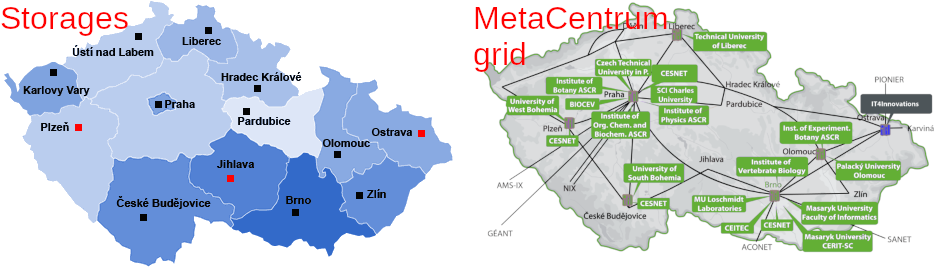
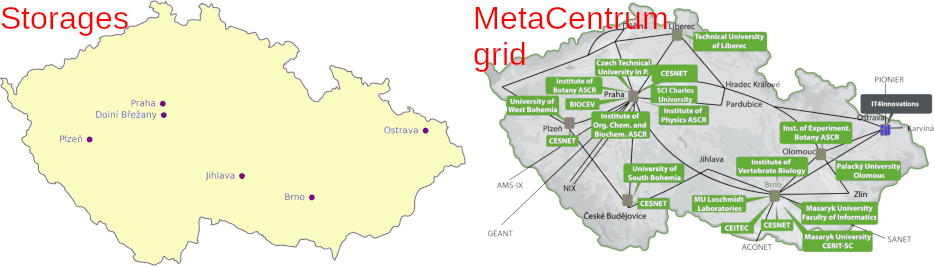
Updated links. Fixed spacing around code blocks. Updated map of storages.

Changed region(s): [[0.0, 0.0, 0.4968, 1.0]]

diff --git a/presentation/linux_bash_metacentrum_course.tex b/presentation/linux_bash_metacentrum_course.tex
@@ -67,8 +67,8 @@
 	}
 
 % Fixing space before and after block of code higlight
-\BeforeBeginEnvironment{bashcode}{\vspace{-0.75em}}
-\AfterEndEnvironment{bashcode}{\par\vspace{-0.5em}}
+\BeforeBeginEnvironment{bashcode}{\vspace{-0.25em}}
+\AfterEndEnvironment{bashcode}{\par\vspace{-0.25em}}
 
 % Fixing space before and after multicols region
 \BeforeBeginEnvironment{multicols}{\vspace{-0.5em}}
@@ -219,7 +219,7 @@
 			\item Nowadays powering most of the Internet
 			\item Anyone can contribute --- not only code, also documentation, design, translations,~\ldots
 			\item Most of people working with UNIX are using Linux (or macOS)
-			\item Powering everything from little \href{https://en.wikipedia.org/wiki/Internet_of_things}{IoT} toys and devices to 100\% of \href{https://www.top500.org/statistics/list/}{top 500 supercomputers}
+			\item Powering everything from little \href{https://en.wikipedia.org/wiki/Internet_of_things}{IoT} toys and devices to 100\% of \href{https://www.top500.org/lists/top500/}{top 500 supercomputers}
 		\end{itemize}
 		\item \textbf{GNU tools} and \textbf{Linux kernel} are two important (but not sole) pieces of building set forming modern operating system --- \textbf{\enquote{Linux distribution}}
 		\item \enquote{Linux} nowadays usually mean Linux kernel + GNU basic tools (thus correctly \enquote{GNU/Linux}) + thousands of various another applications (= \enquote{Linux distribution}) --- ecosystem of (free) open-source GNU/Linux applications of various origin forming together what  we usually call simply \enquote{Linux}
@@ -309,7 +309,7 @@
 			\item Easier to find and trace bugs
 			\item Security --- no backdoors, possibility to do various audits, screenings, etc.
 			\item Bugs (problems) in the code can fixed by nearly anyone
-			\item Often available for free (e.g. on services like \href{https://github.com/}{GitHub} or \href{https://sourceforge.net/}{SourceForge})
+			\item Often available for free (e.g. on services like \href{https://github.com/}{GitHub}, \href{https://gitlab.com/}{GitLab}, \href{https://bitbucket.org/}{Bitbucket} or \href{https://sourceforge.net/}{SourceForge})
 			\item Easier distribution of the software (can be copied into various repositories, like those of Linux distributions, \href{https://docs.conda.io/}{Conda} or \href{https://brew.sh/}{Homebrew})
 		\end{itemize}
 	\end{itemize}
@@ -410,8 +410,7 @@
 		\item \href{https://www.gnome.org/}{GNOME} --- one of the most common, relatively simplistic interface, but still feature rich, \enquote{Mac-like}
 		\item \href{https://xfce.org/}{XFCE} --- lightweight version of older GNOME --- for older computers or users not willing to be disturbed by graphical effects, basically \enquote{Mac-like} looking, but panels can be moved to \enquote{Windows style}
 		\item \href{https://cinnamon-spices.linuxmint.com/}{Cinnamon} --- remake of GNOME to look more like Windows\ldots
-		\item \href{https://code.launchpad.net/unity}{Unity} --- originally developed by Ubuntu (discontinued, now community based), \enquote{Mac-style}
-		\item And much more\ldots
+		\item And much \href{https://en.wikipedia.org/wiki/Desktop_environment\#Examples_of_desktop_environments}{more}\ldots
 		\item Choose what you like --- doesn't matter much which one\ldots
 	\end{itemize}
 \end{frame}
@@ -996,7 +995,7 @@
 		\item Important especially in network environment with many users
 		\item If intensively used, \texttt{ls -l} sometimes doesn't show correct permissions (see next slide), it can be confusing and lead into various issues
 		\item If not in use on a~server, relatively high number of groups is required to be able to correctly setup sharing permissions
-		\item MetaCentrum has storages and clusters connected via NFSv4 protocol (see also slide~\ref{netfs}) --- commands \texttt{getfacl} and \texttt{setfacl} do not work there, use \texttt{nfs4\_getfacl}, \texttt{nfs4\_setfacl} and \texttt{nfs4\_editfacl} instead (usage is very similar), see also \href{https://wiki.metacentrum.cz/wiki/Access_Control_Lists_on_NFSv4}{old MetaCentrum wiki}
+		\item MetaCentrum has storages and clusters connected via NFSv4 protocol (see also slide~\ref{netfs}) --- commands \texttt{getfacl} and \texttt{setfacl} do not work there, use \texttt{nfs4\_getfacl}, \texttt{nfs4\_setfacl} and \texttt{nfs4\_editfacl} instead (usage is very similar), see also \href{https://docs.metacentrum.cz/en/docs/data/data-sharing\#nfsv4-wrapper}{MetaCentrum documentation}
 		\item Permissions (\enquote{classical} as well as ACL) require some time to practice and master it\ldots
 	\end{itemize}
 	\begin{block}{Importance of permissions}
@@ -1262,7 +1261,7 @@
 		\vfill
 		\begin{itemize}
 			\item If fingerprint key changes, ssh complains a~lot --- possible \href{https://en.wikipedia.org/wiki/Man-in-the-middle_attack}{man in the middle attack}
-			\item From Windows use \href{https://www.putty.org/}{Putty} (see right figure)
+			\item From Windows use \href{https://www.chiark.greenend.org.uk/~sgtatham/putty/}{Putty} (see right figure)
 		\end{itemize}
 		\begin{center}
 			\includegraphics[height=6cm]{putty.png}
@@ -2635,7 +2634,7 @@
 			\item \href{https://www.gnu.org/software/emacs/}{GNU Emacs}
 			\item \href{https://www.geany.org/}{Geany}
 			\item \href{https://bluefish.openoffice.nl/}{Bluefish}
-			\item \href{https://gedit-technology.github.io/apps/gedit/}{Gedit}
+			\item \href{https://gedit-text-editor.org/}{Gedit}
 			\item \href{https://notepad-plus-plus.org/}{Notepad++}
 			\item \href{https://www.sublimetext.com/}{Sublime}
 			\item \href{https://code.visualstudio.com/}{VS Code}
@@ -4275,7 +4274,7 @@
 \begin{frame}{Manuals for package management}
 	\begin{itemize}
 		\item openSUSE and SUSE Linux Enterprise: \url{https://doc.opensuse.org/documentation/leap/startup/html/book-startup/part-reference-software.html} and \url{https://en.opensuse.org/Portal:Zypper}
-		\item Red Hat, Fedora, CENTOS, Scientific Linux and others: \url{http://yum.baseurl.org/} and newer \url{https://docs.fedoraproject.org/en-US/quick-docs/dnf/}
+		\item Red Hat, Fedora, CENTOS, Scientific Linux and others: \url{https://docs.fedoraproject.org/en-US/quick-docs/dnf/} and older \url{http://yum.baseurl.org/}
 		\item Debian (and derivatives): \url{https://www.debian.org/doc/manuals/debian-reference/ch02.en.html} and \url{https://wiki.debian.org/PackageManagement}
 		\item Ubuntu (and derivatives): \url{https://help.ubuntu.com/stable/ubuntu-help/addremove.html} and \url{https://help.ubuntu.com/community/AptGet/Howto}
 		\item And another distributions\ldots
@@ -4372,7 +4371,7 @@
 	\begin{itemize}
 		\item \href{https://www.java.com/}{Java} is probably the most portable language working on any operating system --- the only condition is to install \href{https://en.wikipedia.org/wiki/Java_virtual_machine}{Java virtual machine (JVM)}
 		\item Linux usually use \href{https://openjdk.org/}{OpenJDK} --- search for packages named \texttt{*openjdk*}
-		\item Let's download e.g. \href{http://tree.bio.ed.ac.uk/software/figtree/}{FigTree} from \url{https://github.com/rambaut/figtree/releases}
+		\item Let's download e.g. \href{https://tree.bio.ed.ac.uk/software/figtree/}{FigTree} from \url{https://github.com/rambaut/figtree/releases}
 	\end{itemize}
 	\vfill
 	\begin{bashcode}
@@ -4511,22 +4510,19 @@
 		\item Services requiring registration (and approval)
 		\begin{itemize}
 			\item To use MetaCentrum fill registration form \url{https://metavo.metacentrum.cz/en/application/form} (\href{https://metavo.metacentrum.cz/cs/application/}{česky})
-			\item To use data storage fill registration form \url{https://einfra.cesnet.cz/perun-registrar-fed/?vo=storage}
+			\item To use data storage fill registration form \url{https://einfra.cesnet.cz/allfed/registrar/?vo=VO_s3&group=s3_cl4}
 			\item After registration for MetaCentrum, user can join MetaCloud via \url{https://perun.metacentrum.cz/fed/registrar/?vo=meta&group=metacloud}
 			\item Login is using \href{https://www.eduid.cz/en/index}{EduID} (\href{https://www.eduid.cz/cs/index}{česky})
 		\end{itemize}
 		\item Information about data storage \url{https://du.cesnet.cz/en/start} (\href{https://du.cesnet.cz/cs/start}{česky}) contains detailed usage instructions
 		\item Information about MetaCentrum \url{https://www.metacentrum.cz/en/} (\href{https://www.metacentrum.cz/cs/}{česky}) and documentation \url{https://docs.metacentrum.cz/}
-		\begin{itemize}
-			\item The documentation is being migrated from wiki \url{https://wiki.metacentrum.cz/wiki/Main_Page} (\href{https://wiki.metacentrum.cz/wiki/Hlavn\%C3\%AD_strana}{česky})
-		\end{itemize}
-		\item Information about MetaCloud \url{https://docs.cloud.muni.cz/} (\href{https://wiki.metacentrum.cz/wiki/Kategorie:Clouds}{old wiki page})
-		\item Also available is Galaxy \url{https://usegalaxy.cz/} (same login as to MetaCentrum) --- web based bioinformatics framework (more information at \href{https://docs.metacentrum.cz/related/galaxy/}{documentation})
+		\item Information about MetaCloud \url{https://docs.platforms.cloud.e-infra.cz/}
+		\item Also available is Galaxy \url{https://usegalaxy.cz/} (same login as to MetaCentrum) --- web based bioinformatics framework (more information at \href{https://docs.metacentrum.cz/en/docs/related/galaxy}{documentation})
 		\item Current state and usage of resources is available at \url{https://metavo.metacentrum.cz/en/} (\href{https://metavo.metacentrum.cz/cs/}{česky})
 		\item Manage your user account at \url{http://metavo.metacentrum.cz/en/myaccount/} (\href{https://metavo.metacentrum.cz/cs/myaccount/}{česky})
 		\item Personal view on actual resources and running tasks is at \url{https://metavo.metacentrum.cz/pbsmon2/person}
-		\item List of available applications \url{https://docs.metacentrum.cz/software/}
-		\item MetaCentrum has 11~\href{https://docs.metacentrum.cz/computing/infrastructure/frontends/}{frontends} where users log and thousands of computers doing the calculations --- they are not accessed directly to run task
+		\item List of available applications \url{https://docs.metacentrum.cz/en/docs/software/alphabet}
+		\item MetaCentrum has 11~\href{https://docs.metacentrum.cz/en/docs/computing/infrastructure/frontends}{frontends} where users log and thousands of computers doing the calculations --- they are not accessed directly to run task
 		\item Most of computers are running \href{https://www.debian.org/}{Debian GNU/Linux}
 		\begin{itemize}
 			\item Basic usage as with any other Linux server --- SSH \& command line\ldots
@@ -4553,16 +4549,16 @@
 	\begin{itemize}
 		\item \href{https://metavo.metacentrum.cz/}{MetaCentrum clusters} are distributed in various Czech cities (and institutions)
 		\item Clusters use to have (at least small) storage array (accessible via \texttt{/storage/\ldots})
-		\item There are special \href{https://du.cesnet.cz/en/infrastruktura_ulozist/start}{archive storages} (\href{https://du.cesnet.cz/cs/infrastruktura_ulozist/start}{česky}) in Jihlava, Ostrava and Plzeň
+		\item There are special \href{https://docs.du.cesnet.cz/en/docs/introduction/description}{archive storages} in multiple locations
 	\end{itemize}
 	\begin{center}
 		\includegraphics[width=\textwidth]{metacentrum_map.png}
 	\end{center}
 	\begin{itemize}
 		\item Users have different quota on different arrays (depending on home organization etc.)
-		\item There are 11 \href{https://docs.metacentrum.cz/computing/infrastructure/frontends/}{frontends} where user logs via SSH and prepare computing task for submission etc. (see further)
+		\item There are 11 \href{https://docs.metacentrum.cz/en/docs/computing/infrastructure/frontends}{frontends} where user logs via SSH and prepare computing task for submission etc. (see further)
 		\item Distributed topology might be bit confusing --- user has different home directory when logging to different frontends --- recommended is to use as few frontends and storages as possible
-		\item Some special services (like \href{https://docs.metacentrum.cz/ondemand/}{OnDemand}) start on particular storage (here \texttt{brno3})
+		\item Some special services (like \href{https://docs.metacentrum.cz/en/docs/graphical/ondemand}{OnDemand}) start on particular storage
 		\item Generally, computing task loads data from selected storage and can start on any cluster
 		\item Orientation is plenty of storages might be sometimes tricky --- ensure where you are and where your data are supposed to be
 		\begin{itemize}
@@ -4584,8 +4580,8 @@
 
 \begin{frame}[fragile]{MetaCentrum usage}
 	\begin{enumerate}
-		\item Transfer data into one of \href{https://docs.metacentrum.cz/data/useful-commands/}{storages} by e.g. \texttt{scp} from command line, \href{https://winscp.net/}{WinSCP} from Windows or \href{https://filezilla-project.org/}{FileZilla} from any OS
-		\item Connect via SSH to selected \href{https://docs.metacentrum.cz/computing/infrastructure/frontends/}{frontend}. Same credentials are used for all frontends, for SSH login as well as file transmissions
+		\item \href{https://docs.metacentrum.cz/en/docs/data/large-data}{Transfer} data into one of \href{https://docs.metacentrum.cz/en/docs/computing/infrastructure/storages}{storages} by e.g. \texttt{scp} from command line, \href{https://winscp.net/}{WinSCP} from Windows or \href{https://filezilla-project.org/}{FileZilla} from any OS
+		\item Connect via SSH to selected \href{https://docs.metacentrum.cz/en/docs/computing/infrastructure/frontends}{frontend}. Same credentials are used for all frontends, for SSH login as well as file transmissions
 		\item In home directory on the storage (accessed via frontend) prepare all needed data and non-interactive script to do the calculations
 		\item Submit job using \texttt{qsub}. Tasks are not launched immediately, but submitted into queue and system decides when it will be launched
 		\item Monitor job progress. Check results. Etc\ldots
@@ -4602,7 +4598,7 @@
 	\begin{multicols}{2}
 		\begin{itemize}
 			\item Graphical applications: e.g. \href{https://filezilla-project.org/}{FileZilla} or most of Linux file managers
-			\item Protocol is SSH/SSH2/SFTP/SCP, port 22, server is selected \href{https://docs.metacentrum.cz/snippets/storages-direct-ssh-table/}{storage} address --- if possible, select any and keep using it
+			\item Protocol is SSH/SSH2/SFTP/SCP, port 22, server is selected \href{https://docs.metacentrum.cz/en/docs/computing/infrastructure/frontend-storage}{storage} address --- if possible, select any and keep using it
 			\item All servers (storages, frontends, computing nodes) are accessible under domain \texttt{*.metacentrum.cz} --- e.g. \texttt{tarkil.grid.cesnet.cz} is same as \texttt{tarkil.metacentrum.cz}
 			\item See slide \ref{transfers} and following to command-line transfers of files
 		\end{itemize}
@@ -4642,7 +4638,7 @@
     # ...begins on previous slide; copy data - if it fails, exit
     cp -a "${DATADIR}"/"${WORKDIR}"/* "${SCRATCHDIR}"/ || exit 1
     # Prepare calculations - load required application modules
-    # See https://docs.metacentrum.cz/software/
+    # See https://docs.metacentrum.cz/en/docs/software/alphabet
     # Every application module is loaded by "module add XXX"
     module add parallel/20210922-gcc-10.2.1-iiyjqem # In this (example) case
     module add mrbayes/3.2.7a                       # GNU Parallel and MrBayes
@@ -4663,7 +4659,7 @@
 
 \begin{frame}[fragile]{Launching of tasks}
 	\begin{itemize}
-		\item See \url{https://docs.metacentrum.cz/computing/run-basic-job/}
+		\item See \url{https://docs.metacentrum.cz/en/docs/computing/run-basic-job}
 		\item Personal view \url{https://metavo.metacentrum.cz/pbsmon2/person} has nice overview of available resources and tasks and allows comfortable construction of submission command
 	\end{itemize}
 	\vfill
@@ -4685,10 +4681,10 @@
 \begin{frame}[fragile]{Key MetaCentrum commands}
 	\begin{itemize}
 		\item MetaCentrum is \enquote{just} normal Linux server --- work there as on any other Linux system
-		\item Command \texttt{module} loads/unloads selected \href{https://docs.metacentrum.cz/software/}{application}
+		\item Command \texttt{module} loads/unloads selected \href{https://docs.metacentrum.cz/en/docs/software/alphabet}{application}
 		\item Tasks (BASH scripts) are submitted for computing by \texttt{qsub} --- the script must copy the data into \texttt{\$SCRATCHDIR} and do all calculations there
 		\begin{itemize}
-			\item It has plenty of options how to specify requirements (see next slide and \href{https://docs.metacentrum.cz/computing/resources/resources/}{help})
+			\item It has plenty of options how to specify requirements (see next slide and \href{https://docs.metacentrum.cz/en/docs/computing/resources/resources}{help})
 		\end{itemize}
 		\item Queued and running jobs can be seen by \texttt{qstat -u \$USER} (\texttt{qstat} has much more options) and any job can be terminated by \texttt{qdel 123456789} (number from \texttt{qstat})
 	\end{itemize}
@@ -4724,10 +4720,10 @@
 			\item If using more physical machines, ensure correct settings of e.g. MPI (see documentation for respective software you are using)
 		\end{itemize}
 		\item If requesting e-mails (e.g. \texttt{-m abe} to get mail about abort, beginning and exit of the task) and submitting plenty of tasks by some script, it can result in plenty of mails\ldots
-		\item Every user has certain \href{https://metavo.metacentrum.cz/pbsmon2/users/}{priority} increased by \href{https://docs.metacentrum.cz/access/terms/\#acknowledgements-and-publications}{acknowledgments} (\textbf{it's mandatory to acknowledge MetaCentrum when using it}) in publications to MetaCentrum, and lowered by intensive usage of the service (the usage is calculated from past month)
+		\item Every user has certain \href{https://metavo.metacentrum.cz/pbsmon2/users/}{priority} increased by \href{https://docs.metacentrum.cz/en/docs/access/terms\#acknowledgements-and-publications}{acknowledgments} (\textbf{it's mandatory to acknowledge MetaCentrum when using it}) in publications to MetaCentrum, and lowered by intensive usage of the service (the usage is calculated from past month)
 		\item After submission of the task, check in \href{https://metavo.metacentrum.cz/pbsmon2/queues/jobsQueued}{the queue} in which state it is --- sometimes it can't start because of impossible combination of requested resources or so
 		\item User can \href{https://metavo.metacentrum.cz/pbsmon2/nodes/physical}{check load of machines}
-		\item For more options read \url{https://docs.metacentrum.cz/computing/resources/resources/}
+		\item For more options read \url{https://docs.metacentrum.cz/en/docs/computing/resources/resources}
 		\begin{itemize}
 			\item Request special CPU (AMD, graphical,~\ldots), e.g. CPU with AVX2 \texttt{-l~select=cpu\_flag=avx2}
 			\item SSD local storage (e.g. \texttt{-l~scratch\_ssd=1gb})
@@ -4830,7 +4826,7 @@
 		\item Submit the task via \texttt{qsub}.
 		\item Monitor the task with \texttt{qstat}.
 		\item Login with SSH to computing node where the task is running, go to \texttt{\$SCRATCHDIR} and see its progress. Look at output of \texttt{ps ux}. What does it say?
-		\item Wait for the task to be done and explore output (e.g. open the \texttt{treefile} in \href{http://tree.bio.ed.ac.uk/software/figtree/}{FigTree}).
+		\item Wait for the task to be done and explore output (e.g. open the \texttt{treefile} in \href{https://tree.bio.ed.ac.uk/software/figtree/}{FigTree}).
 		\item If you encounter any error, try to find its source and fix it.
 	\end{enumerate}
 \end{frame}
@@ -4839,7 +4835,7 @@
 
 \begin{frame}[fragile]{Graphical interactive task}
 	\begin{itemize}
-		\item See \url{https://docs.metacentrum.cz/software/graphical-access/}
+		\item See \url{https://docs.metacentrum.cz/en/docs/software/graphical-access}
 		\item Download and install \href{https://www.tightvnc.com/}{TightVNC} (Windows installer or Java Viewer)
 	\end{itemize}
 	\begin{bashcode}
@@ -4912,8 +4908,8 @@
 \begin{frame}{OnDemand}{Applications in web browser}
 	\begin{itemize}
 		\item It allows to run selected interactive applications in web browser
-		\item See \url{https://docs.metacentrum.cz/ondemand/} and \url{https://ondemand.grid.cesnet.cz/}
-		\item Applications start in \texttt{/storage/brno3-cerit/home/\$USER/} --- ensure to have everything needed there
+		\item See \url{https://docs.metacentrum.cz/en/docs/graphical/ondemand} and \url{https://ondemand.metacentrum.cz/}
+		\item Applications start in selected storage --- ensure to have everything needed in correct place
 	\end{itemize}
 	\begin{center}
 		\includegraphics[height=3.5cm]{rstudio_ondemand.png}
@@ -4925,11 +4921,11 @@
 		\begin{itemize}
 			\item Web service allowing to record code as well as its output for languages like BASH, R, Python,~\ldots
 			\item Convenient for recording and sharing code, interactive work,~\ldots
-			\item Use \href{https://docs.metacentrum.cz/related/jupyter/}{Jupyter Hub} for MetaCentrum users
+			\item Use \href{https://docs.metacentrum.cz/en/docs/software/sw-list/jupyter}{Jupyter Hub} for MetaCentrum users
 			\begin{itemize}
 				\item Data are typically in \texttt{/storage/brno2/home/USER/}
 			\end{itemize}
-			\item Available also as part of OnDemand (previous slide), or bit experimental \href{https://hub.cloud.e-infra.cz/}{CERIT hub}, which allows to select custom storage and also custom docker image (see \href{https://docs.cerit.io/docs/jupyterhub.html}{documentation})
+			\item Available also as part of OnDemand (previous slide), or bit experimental \href{https://hub.cloud.e-infra.cz/}{CERIT hub}, which allows to select custom storage and also custom docker image (see \href{https://docs.cerit.io/en/docs/web-apps/jupyterhub}{documentation})
 		\end{itemize}
 		\begin{center}
 			\includegraphics[height=6.5cm]{jupyter.png}
@@ -4939,9 +4935,9 @@
 
 \begin{frame}{MetaCentrum cloud}
 	\begin{itemize}
-		\item MetaCentrum \href{https://wiki.metacentrum.cz/wiki/Kategorie:Clouds}{cloud} (\href{https://wiki.metacentrum.cz/wiki/Kategorie:Cloudy}{česky}) allows to run complete Linux distribution (Debian, CentOS,~\ldots), where you can install any software, like on any other computer
+		\item MetaCentrum \href{https://docs.platforms.cloud.e-infra.cz/}{cloud} allows to run complete Linux distribution (Debian, CentOS,~\ldots), where you can install any software, like on any other computer
 		\item Useful e.g. for various testing or applications with very special requirements
-		\item Go to \url{https://cloud.metacentrum.cz/} and see \href{https://docs.cloud.muni.cz/}{documentation}
+		\item Go to \url{https://cloud.metacentrum.cz/} and see \href{https://docs.platforms.cloud.e-infra.cz/}{documentation}
 		\item Login to running virtual machine requires SSH keys to be set up, access is normally via SSH
 		\item Users must have knowledge about Linux administration and follow all security best-practices
 		\item Setting up more than one virtual machine requires good knowledge about Linux networking (user has single public IP address)
@@ -5349,7 +5345,7 @@
 \begin{frame}{Fedora}
 	\begin{itemize}
 		\item Homepage \url{https://fedoraproject.org/}
-		\item Communication and help overview \url{https://fedoraproject.org/wiki/Communicating_and_getting_help}
+		\item Communication and help overview \url{https://docs.fedoraproject.org/en-US/project/communications/}
 		\item Wiki \url{https://fedoraproject.org/wiki/Fedora_Project_Wiki}
 		\item Official forum \url{https://discussion.fedoraproject.org/}
 		\item Documentation \url{https://docs.fedoraproject.org/}
@@ -5361,7 +5357,7 @@
 	\begin{itemize}
 		\item GNOME \url{https://www.gnome.org/}
 		\begin{itemize}
-			\item Help for users \url{https://help.gnome.org/users/}
+			\item Help for users \url{https://help.gnome.org/}
 			\item Wiki \url{https://wiki.gnome.org/}
 		\end{itemize}
 		\item KDE \url{https://kde.org/}
